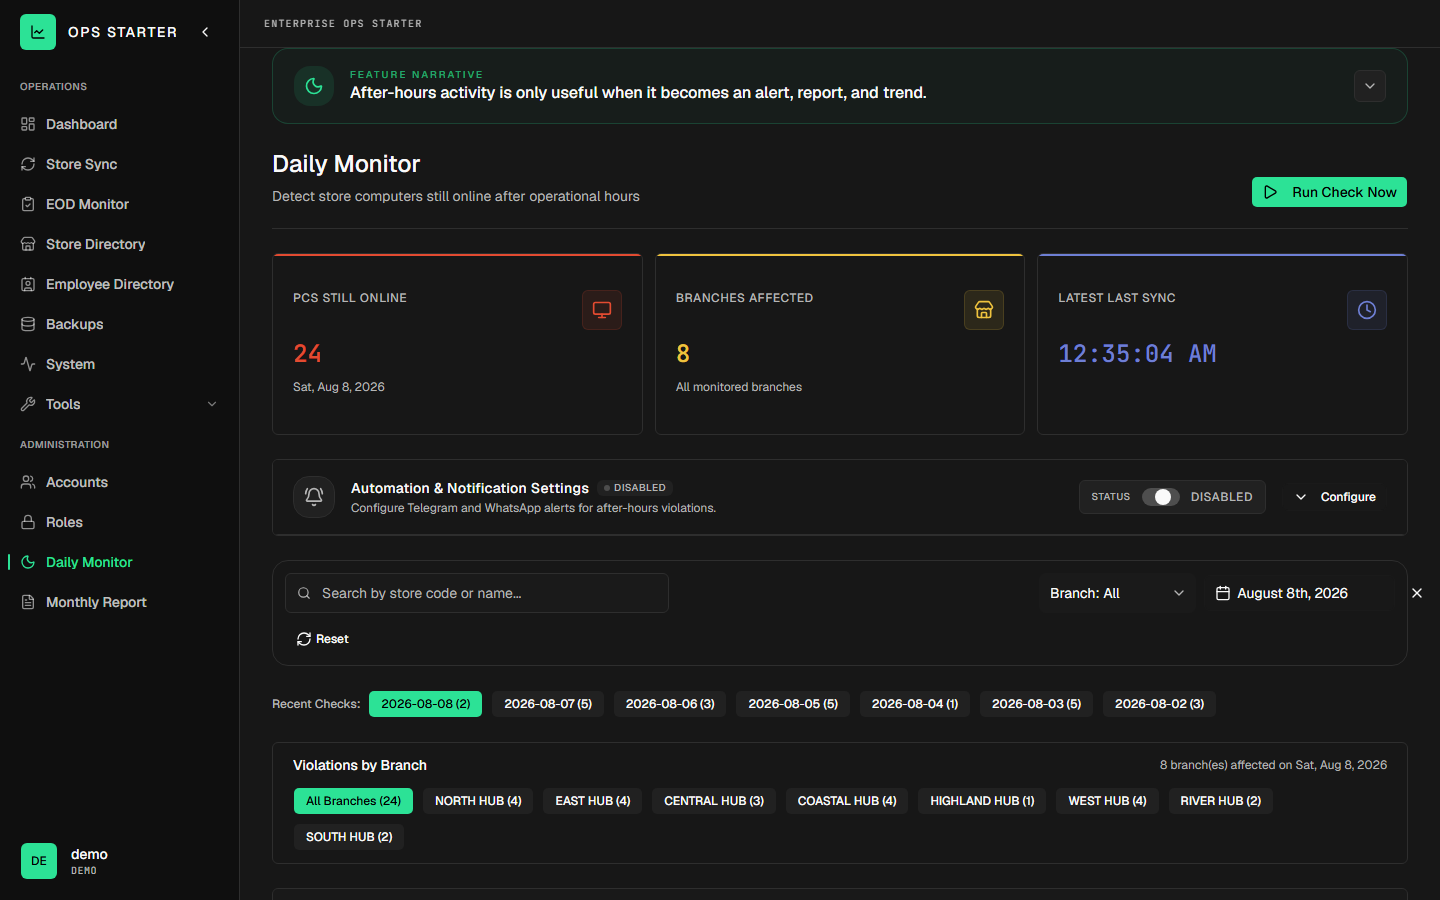
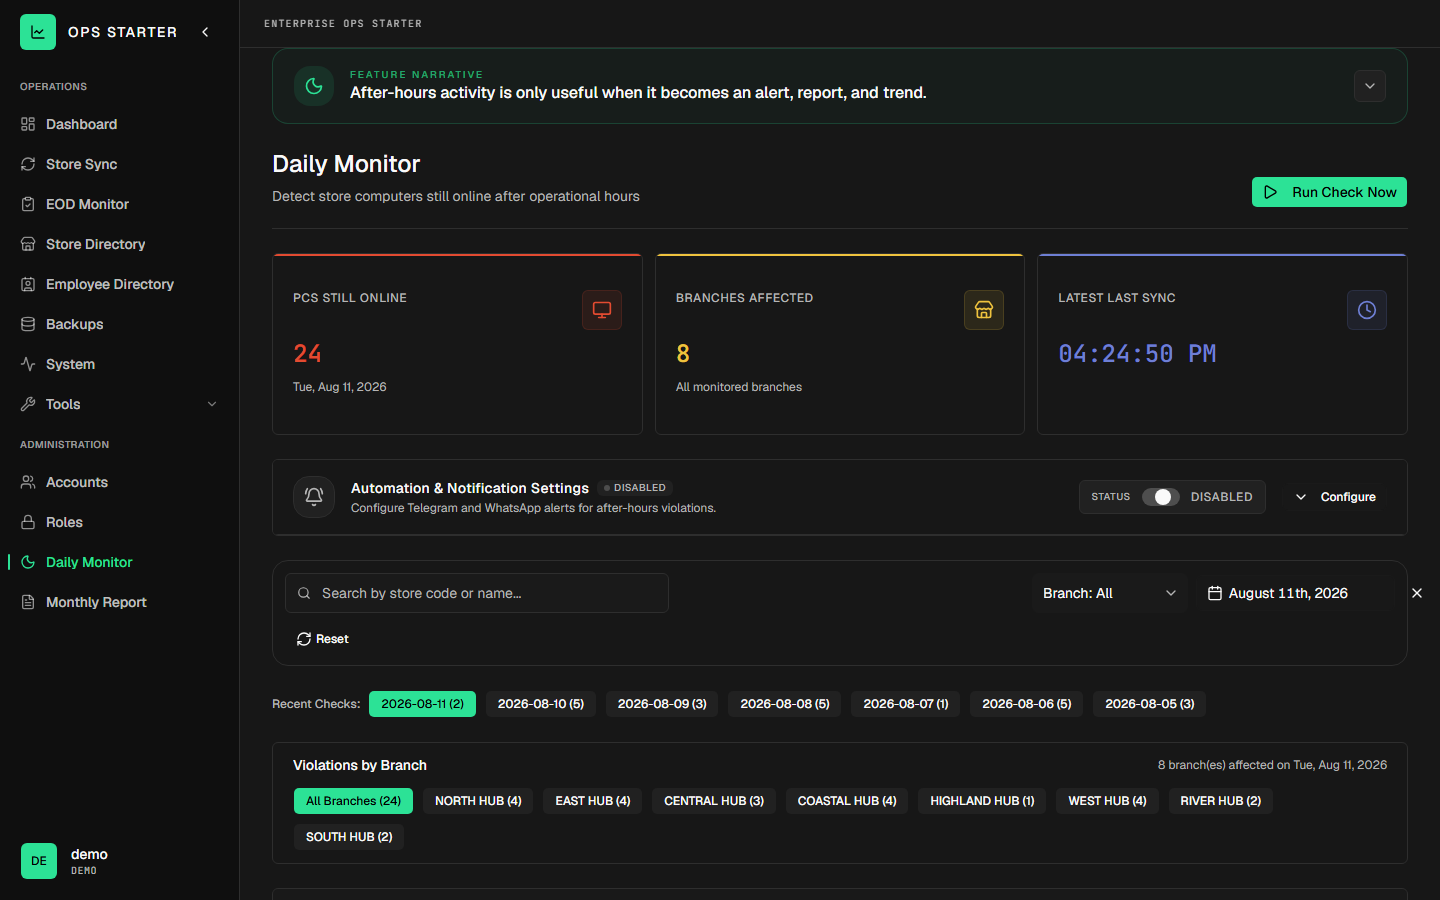
chore: refresh screenshots after R2.2 (no visual regression, data drift only)

diff --git a/docs/roadmap.md b/docs/roadmap.md
@@ -251,7 +251,11 @@ Phases A/B/C/E landed; Phase D continues as roadmap task R3.` Keep the file (it 
   - **Guard:** if a fix changes layout, re-capture screenshots (R2.3) — the README gallery
     must never show a UI that no longer exists.
 
-- [ ] **R2.3 — Re-capture screenshots if the UI changed**
+- [x] **R2.3 — Re-capture screenshots if the UI changed**
+  - **Done 2026-08-11:** `pnpm screenshots` re-run (14 PNG + GIF, zero console errors). Vision
+    comparison of old-vs-new dashboard/eod/system: layout & styling pixel-identical; only
+    date-relative faker data drifted (business date 08→11 Aug) — no visual regression.
+    New screenshots committed.
   - **Precondition:** R2.2 changed anything visible.
   - **Steps:** `pnpm screenshots` (boots mock-api :4000 + web :5182, 1440×900, 14 PNGs +
     walkthrough GIF into `docs/screenshots/`). Verify the `.gitignore` negation for
